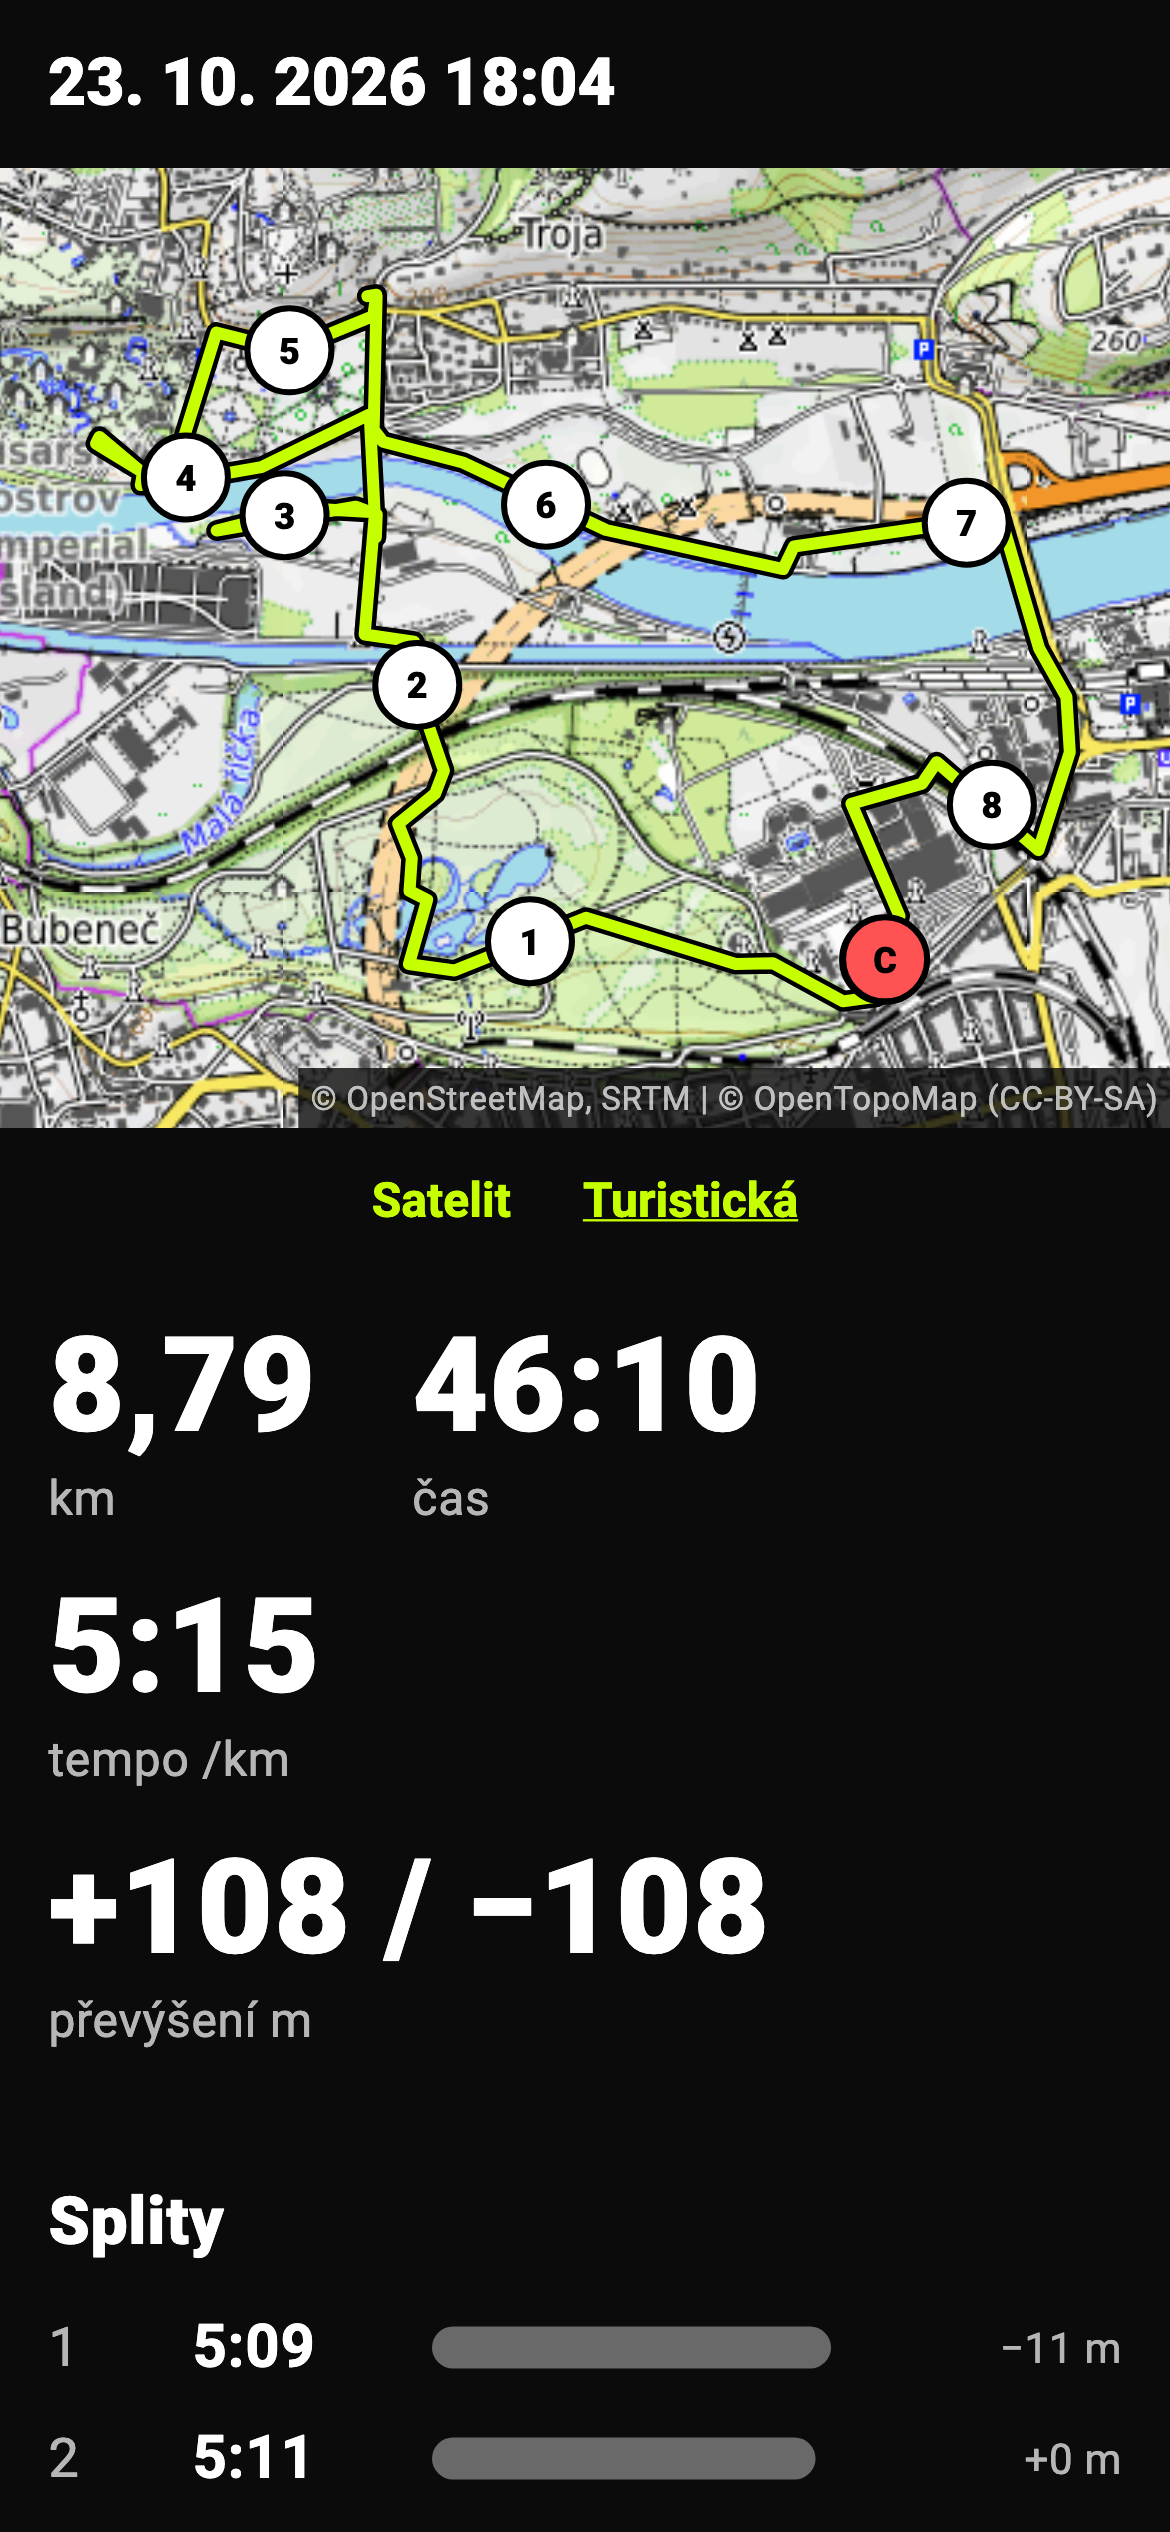
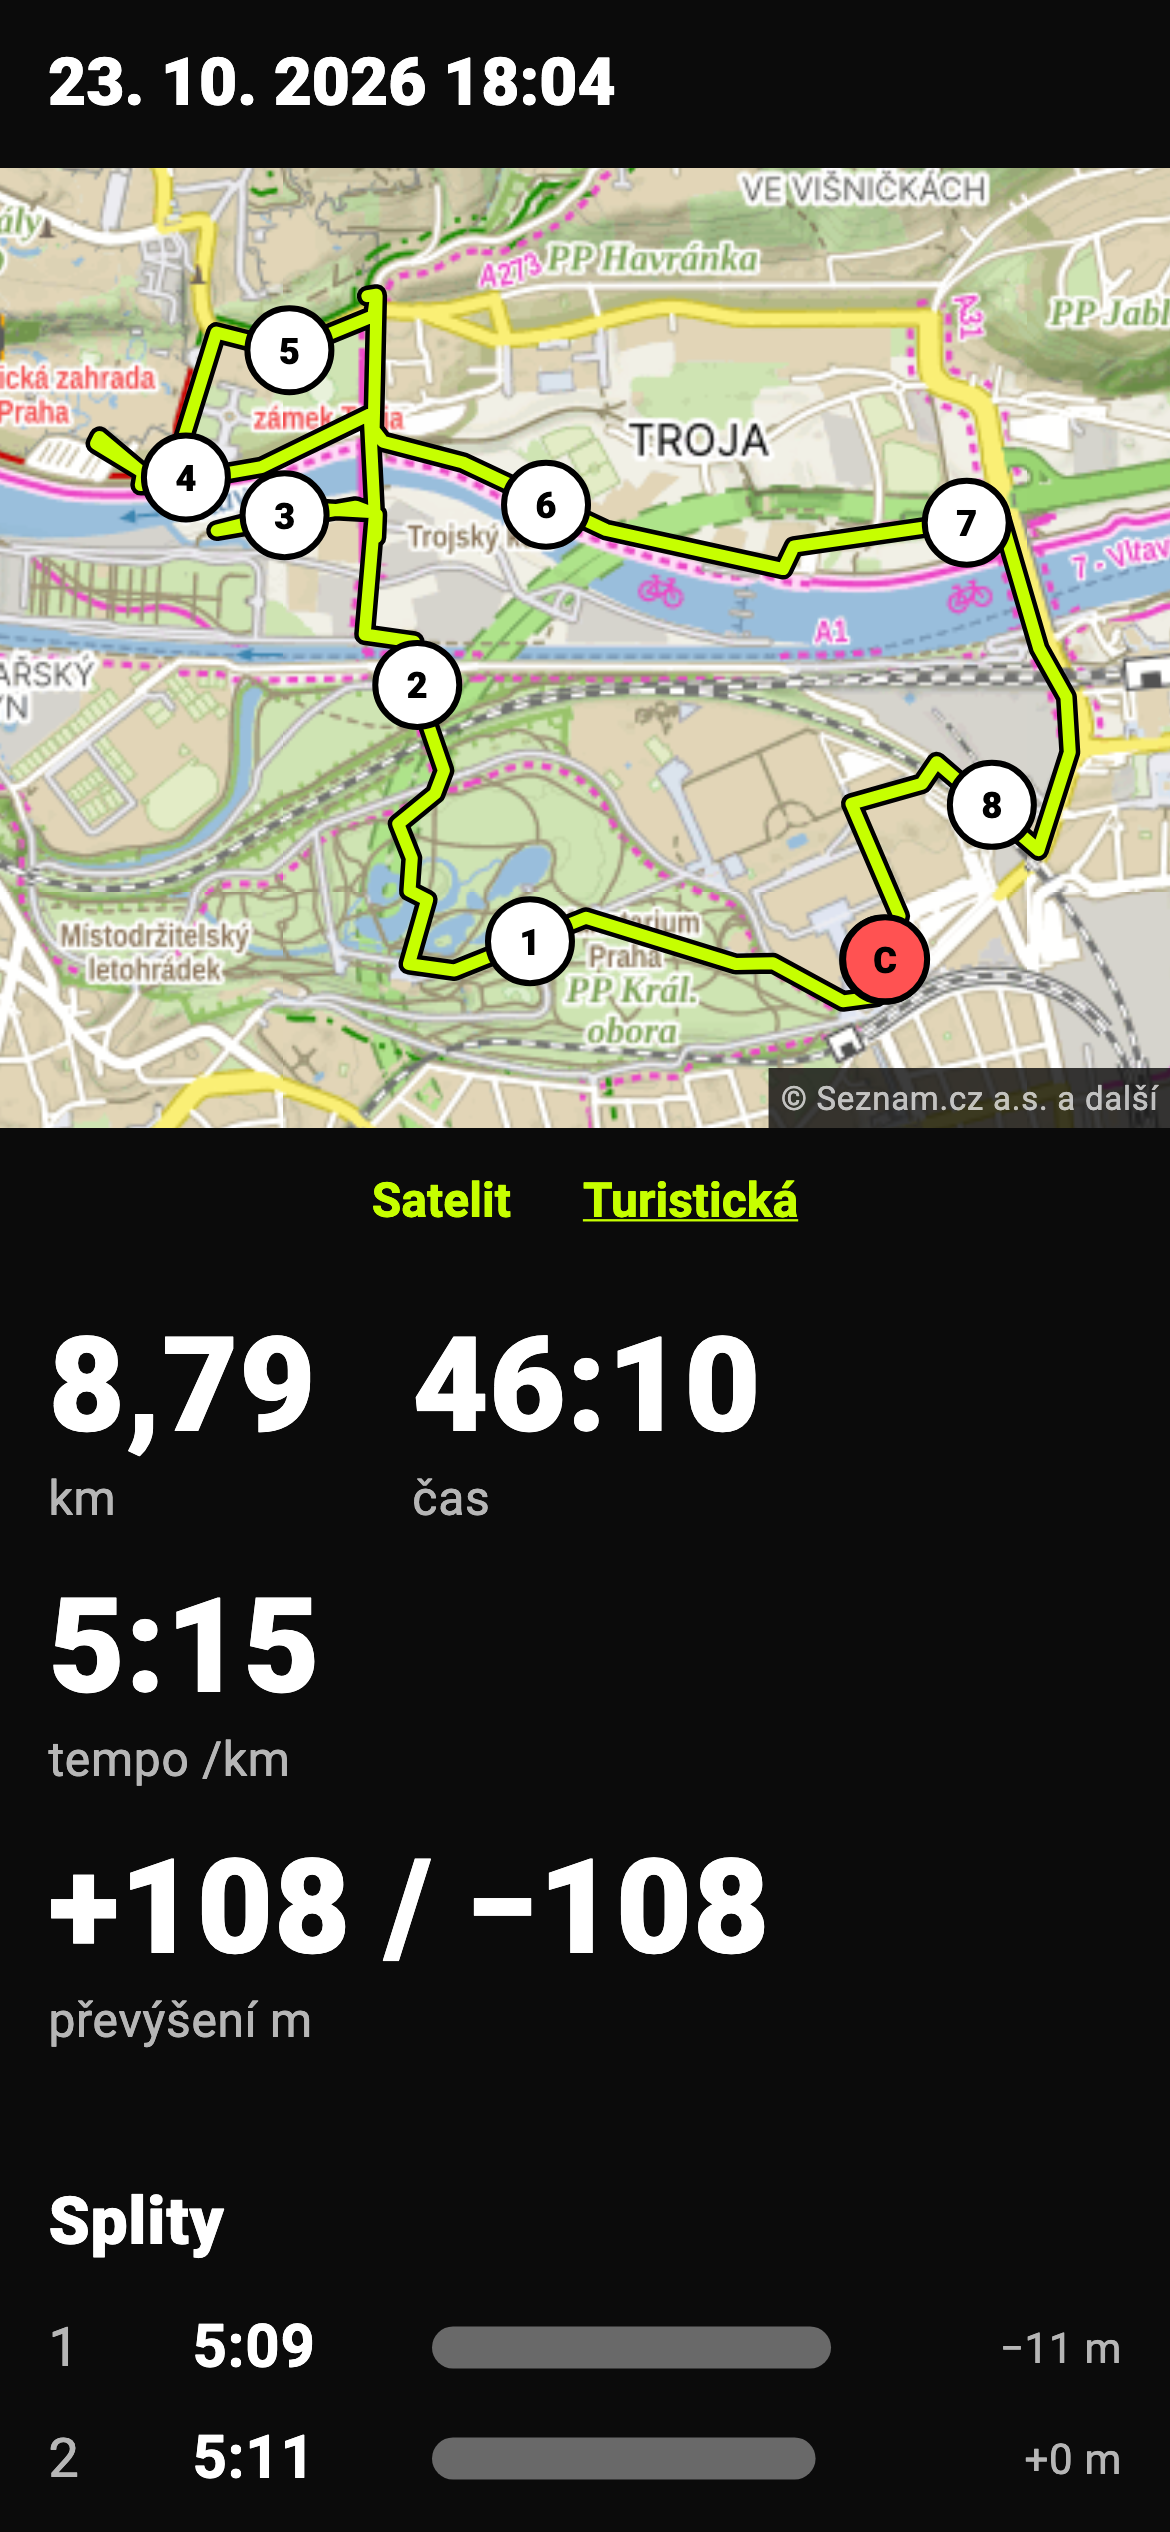
Běhánek: screenshoty s mapami Mapy.com

Changed region(s): [[0.0, 0.0624, 1.0, 0.468]]

diff --git a/CLAUDE.md b/CLAUDE.md
@@ -615,12 +615,14 @@ button appears on the next `make fetch`.
 `test/screenshots_test.dart` in the behanek repo, same `SCREENSHOT_DIR` switch. Its runs are
 generated, not recorded: three Prague loops in `test/fixtures/routes/*.gpx` (walking paths from
 the OSRM foot router, heights from Open-Meteo) are run at a fixed pace curve into nineteen runs
-over the last three months, so the dates move with the day the harness runs. The map tiles are
-fetched live during the test — without `MAPY_API_KEY` that is OpenTopoMap, which the app only
-uses in development; reshoot with the key once the store build has it. The monthly report PNG
-has no shot: it draws with a bare `TextPainter`, which the test environment renders as boxes.
-`icon.png` is `assets/icon/icon.png` from that repo at 512 px. No release yet, so no download
-buttons.
+over the last three months, so the dates move with the day the harness runs (the newest run
+is the 26th, so before the 27th the harness treats the previous month as current). The map
+tiles are fetched live during the test; the shots are made with
+`--dart-define=MAPY_API_KEY=...` (Mapy.com tiles, as in the store build) — without it the app
+falls back to OpenTopoMap, which it only uses in development. The monthly report PNG has no
+shot: it draws with a bare `TextPainter`, which the test environment renders as boxes.
+`icon.png` is `assets/icon/icon.png` from that repo at 512 px. Release v0.1.0 (prerelease)
+carries the APK.
 
 `storyteller` and `audioscanner` also have **no app icon** yet — both still carry the
 default Flutter logo, which is not worth shipping, so they fall back to the store's
